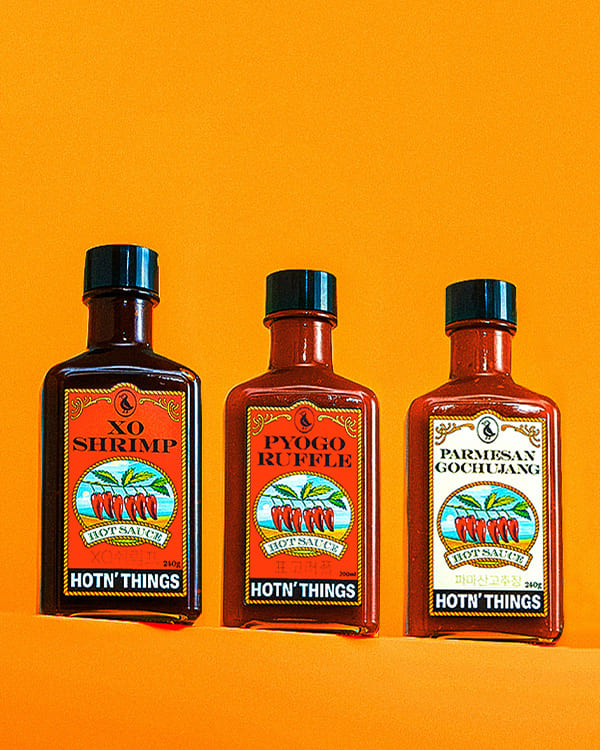
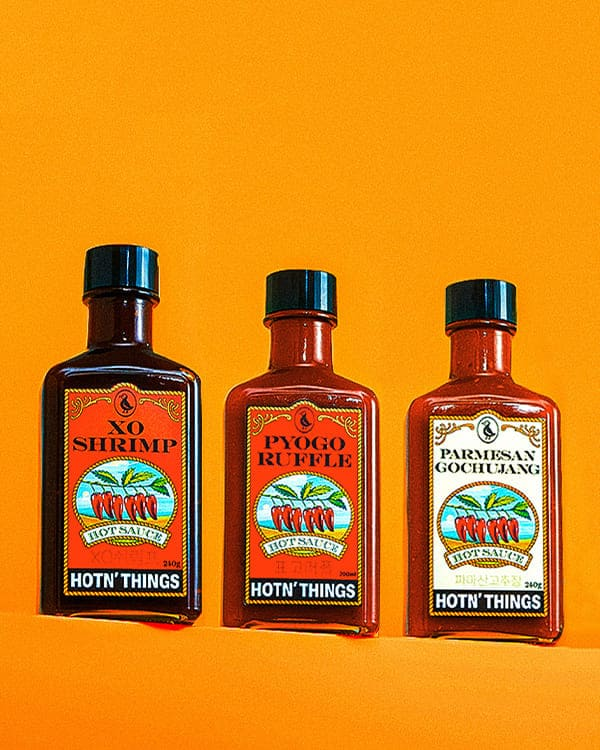
:recycle:refactor: event 코드 리펙토링
- 이미지 최적화
- 헤딩 추가

diff --git a/src/pages/community-event.html b/src/pages/community-event.html
@@ -3,7 +3,7 @@
 <head>
   <meta charset="UTF-8"/>
   <meta name="viewport" content="width=device-width, initial-scale=1"/>
-  <title>HOTN'THINGS - EVENT</title>
+  <title>EVENT - HOTN'THINGS</title>
   <link rel="icon" href="/assets/images/favicon.png" type="image/png">
 
   <link rel="preload" href="/public/assets/fonts/pretendard/woff2/PretendardVariable.woff2" as="font" type="font/woff2" crossorigin>
@@ -23,6 +23,7 @@
 
 <sub-header></sub-header>
 <div id="container" class="bg-hot-ivory">
+  <h1 class="sr-only">EVENT - HOTN'THINGS</h1>
 
 
   <!-- 첫번째 카드 컴포넌트 영역 -->
